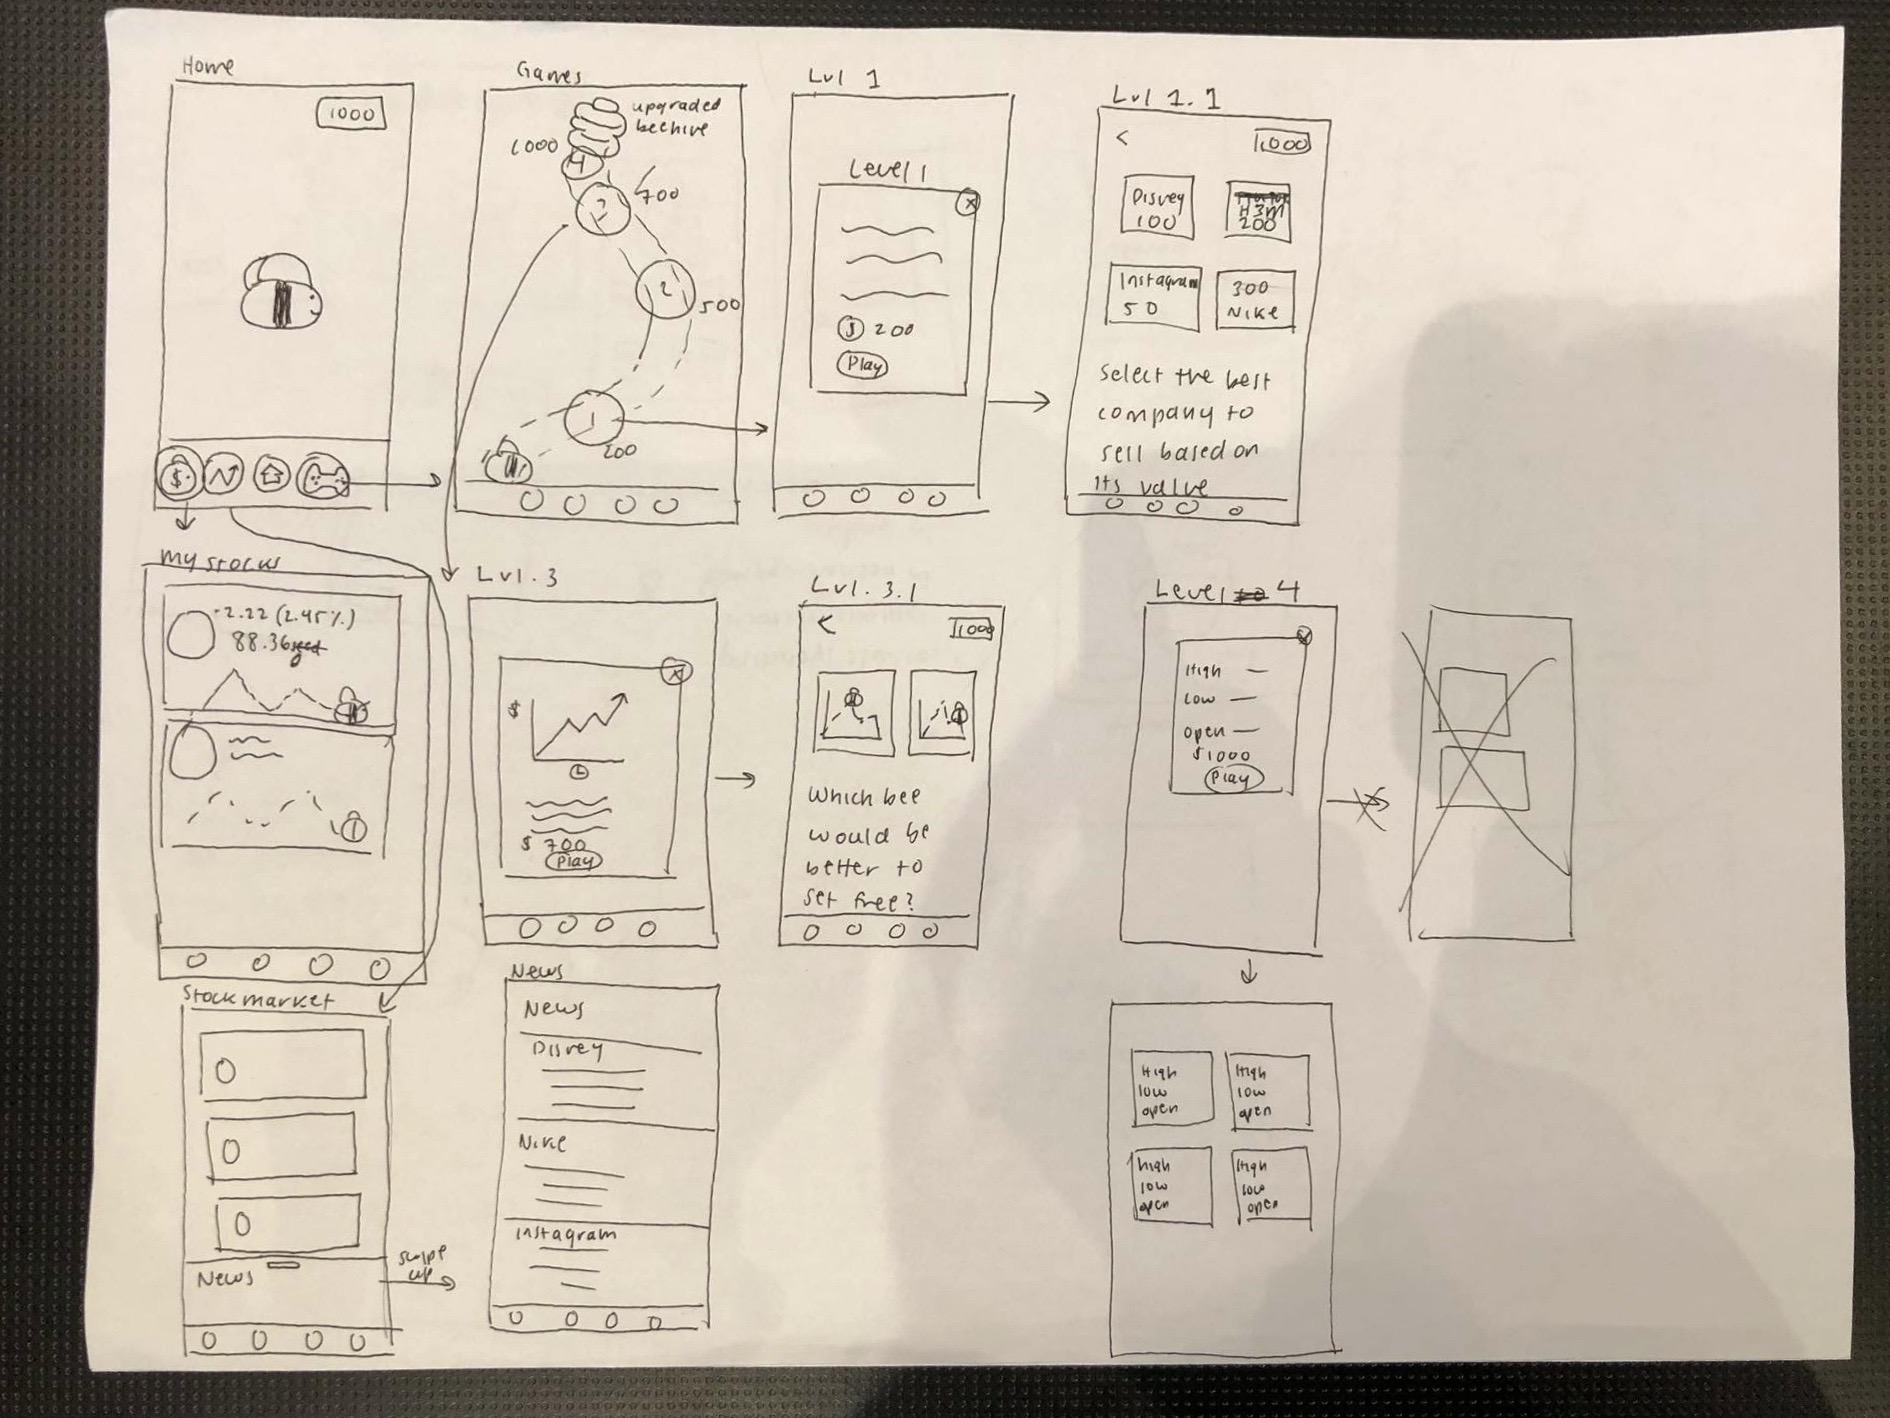
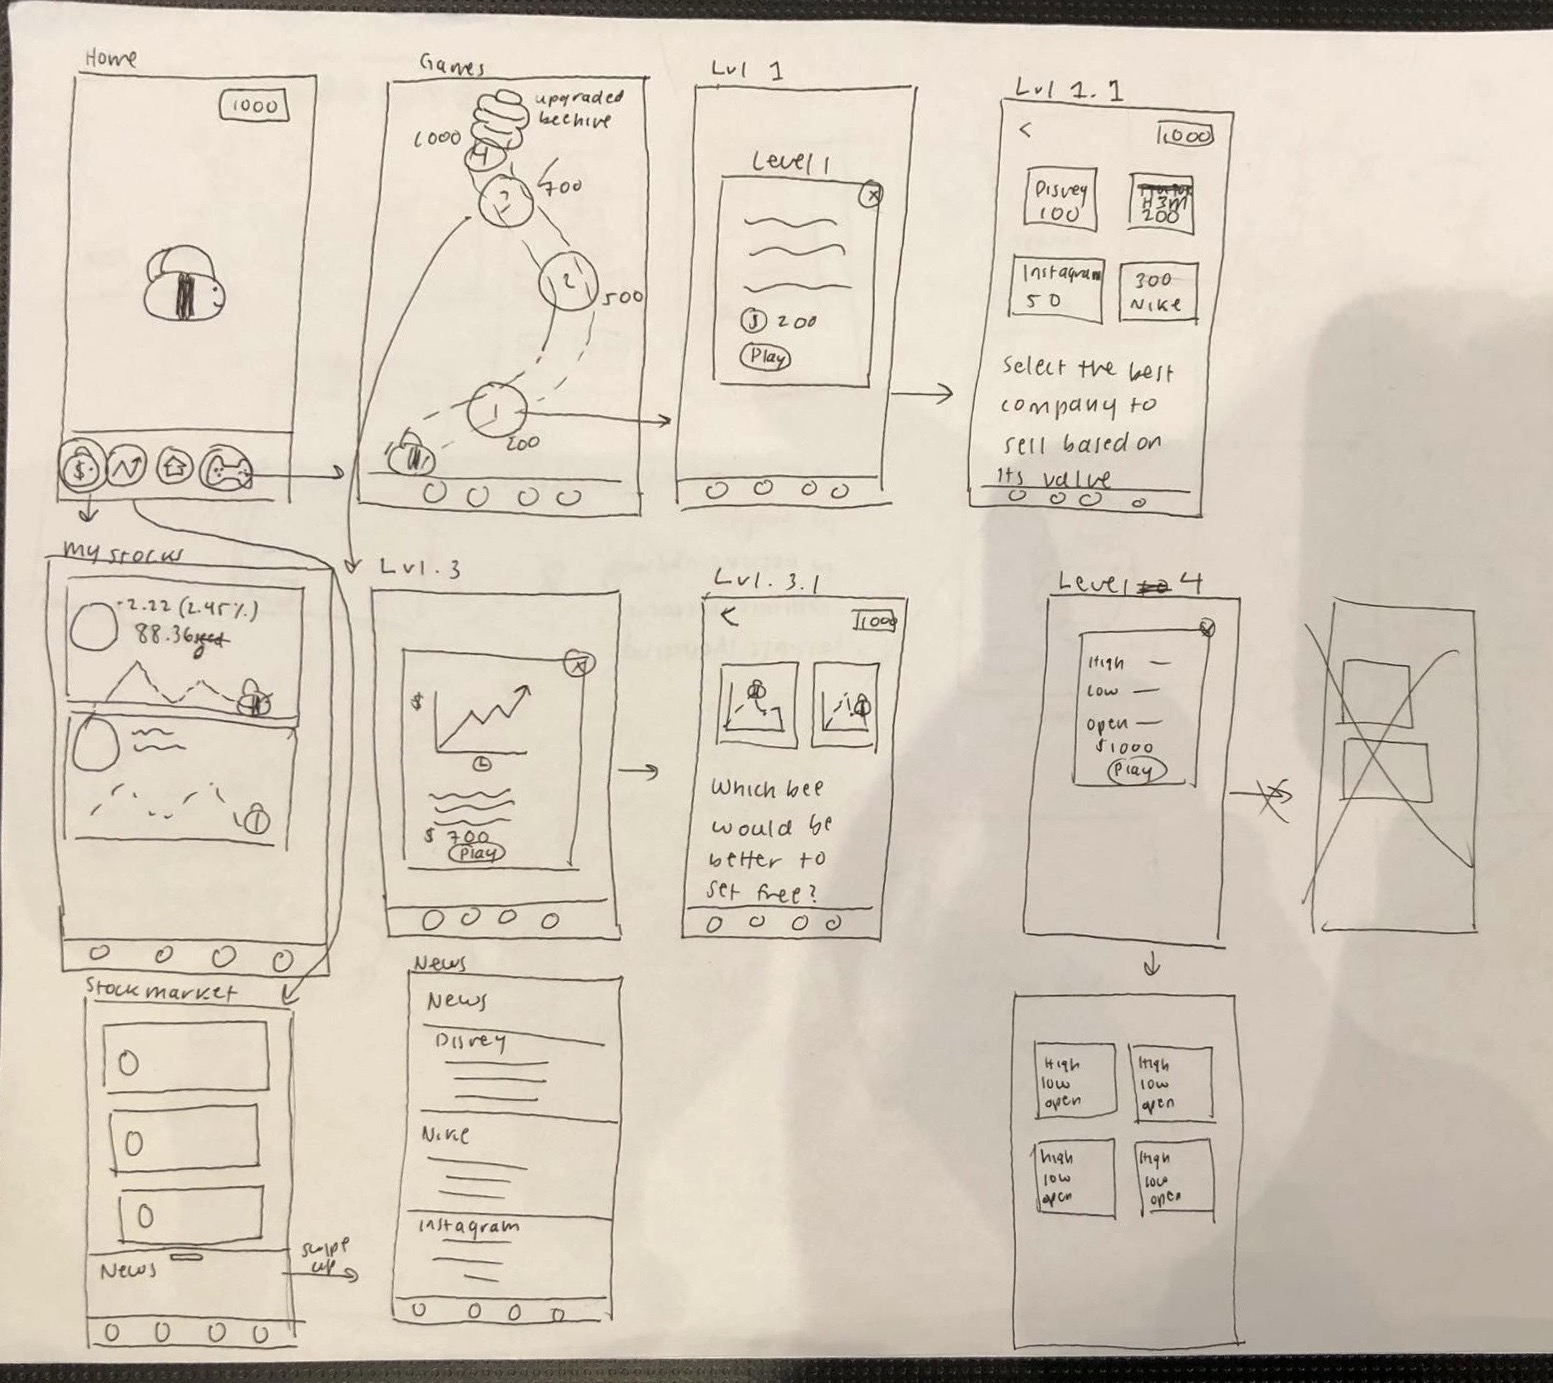
moneybee add

Changed region(s): [[0.0, 0.0, 1.0, 1.0], [0.5873, 0.7462, 0.6182, 0.8706]]

diff --git a/moneybee.html b/moneybee.html
@@ -65,8 +65,8 @@
 								<b>Timeframe:</b> 24 Hours</p>
 							
 						<h2>Project Goal</h2>
-							<p>Our goal was to design an app to help educate youth and teenage girls about finance. In our personal experience, we as a team felt there was a lack of accessible resources to learn how to navigate the stock market. 
-								We hope that MoneyBee can provide users with the tools to manage their own money once they begin earning incomes of their own.</p>
+							<p>Our goal was to design an app to help educate the youth (mainly girls aged 10-15) about finance. Based on our research, there was a lack of accessible and understandable resources available to the youth to learn how to navigate the stock market. 
+								We hope that MoneyBee can provide users with the tools to learn how to manage their own money and investments once they begin earning income of their own.</p>
 
 						<h2>The Problem</h2>
 							<p>We identified three main problems in the current market of educating young women in finance.</p>
@@ -75,7 +75,14 @@
 						<h2>Ideation/Sketching</h2>
 						<p>Due to the time constraint, it was very difficult to do extensive user research/testing. However, we were able to do some iterations of 
 							low-fi wireframes and brainstorm ideas to isolate our main user flows before moving into high-fi designing.</p>
-					
+							<div class="row">
+									<div class ="column">
+										<img src="images/lofi1 moneybee.JPG" alt="Low-fi" style="width:100%"/>
+									</div>
+									<div class ="column">
+										<img src="images/lofi2 moneybee.jpg" alt="Low-fi" style="width:100%"/>
+									</div>
+								</div>	
 						<h2>The Solution</h2>
 						<br><span class="image"><img class="canvasimg1" src="images/moneybee screens.png" alt="The Solution" width=100% /></span>
 						<ol>
@@ -111,7 +118,7 @@
 					<p>One of the main challenges I faced was collaborating effectively with another designer, with a skillset from my own, within a 24-hour time period to create this game. 
 						While it was quite difficult at first, we learned a lot about how to communicate with one another, and I ended up learning even more about how to use design tools such as Adobe Illustrator in doing so. 
 						At the end of the day, we were grateful to take home the first-place prize for the overall hackathon, as well as the Scotiabank sponsor prize (and new friendships) :)!</p>
-						<br><span class="image"><img class="canvasimg1" src="images/moneybee team.JPG" alt="The Team width=50% /></span>
+						<br><span class="image"><img class="canvasimg1" src="images/moneybee team.JPG" alt="The Team" width=50% /></span>
 					</div>
 					</div>
 
